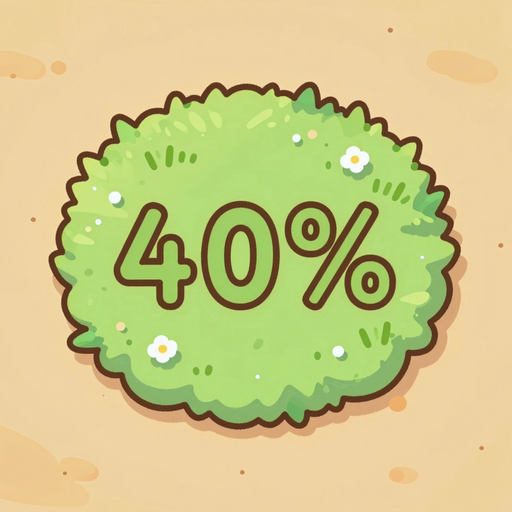
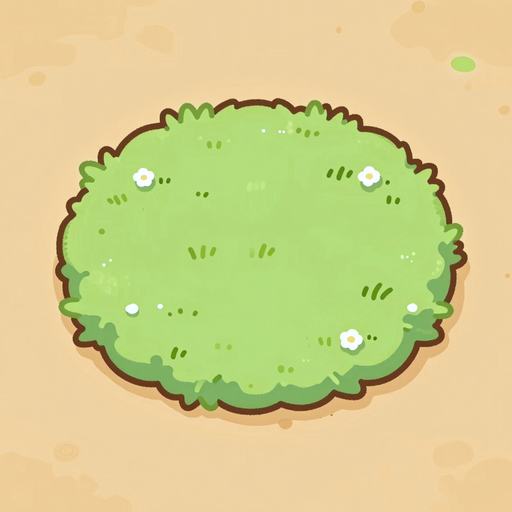
alfa 249dda4: Merge: camino más estrecho y sin la raya del perímetro

diff --git a/alfa/index.html b/alfa/index.html
@@ -10,10 +10,10 @@
 <link rel="preconnect" href="https://fonts.googleapis.com">
 <link rel="preconnect" href="https://fonts.gstatic.com" crossorigin>
 <link rel="stylesheet" href="https://fonts.googleapis.com/css2?family=Baloo+2:wght@600;700;800&family=Luckiest+Guy&display=swap">
-<link rel="stylesheet" href="core/css/base.css?v=5b7b6e4">
-<link rel="stylesheet" href="biblioteca/tienda.css?v=5b7b6e4">
-<link rel="stylesheet" href="novedades/ventana.css?v=5b7b6e4">
-<link rel="stylesheet" href="biblioteca/votos.css?v=5b7b6e4">
+<link rel="stylesheet" href="core/css/base.css?v=249dda4">
+<link rel="stylesheet" href="biblioteca/tienda.css?v=249dda4">
+<link rel="stylesheet" href="novedades/ventana.css?v=249dda4">
+<link rel="stylesheet" href="biblioteca/votos.css?v=249dda4">
 <style>
   /* la entrada de la web: una tarjeta por juego, con los colores y las letras de core */
   body { overflow: auto; touch-action: auto; align-items: flex-start; background-repeat: no-repeat; background-attachment: fixed; }
@@ -61,7 +61,7 @@
 </style>
 </head>
 <body>
-<script src="menu.js?v=5b7b6e4" data-base="" data-core="1" data-pagina=""></script>
+<script src="menu.js?v=249dda4" data-base="" data-core="1" data-pagina=""></script>
 <div class="nov-fondo" id="novedades" hidden>
   <div class="nov-caja" role="dialog" aria-modal="true" aria-labelledby="nov-titulo">
     <div class="nov-cabeza"><h2 class="ol" id="nov-titulo">NOVEDADES</h2><p id="nov-sub"></p></div>
@@ -333,8 +333,8 @@
   </section>
   <p class="note" id="pie-fansof">Fans Of™ · © 2026 Arkioner y Pepins · MicroBlizz · Todos los derechos reservados</p>
 </main>
-<script src="core/js/nucleo.js?v=0-a666.5b7b6e4"></script>
-<script src="core/js/novedades.js?v=5b7b6e4"></script>
+<script src="core/js/nucleo.js?v=0-a667.249dda4"></script>
+<script src="core/js/novedades.js?v=249dda4"></script>
 <script>
 // La cuenta de la web es la misma de los juegos (core/js/sistema/cuenta.js, mismo navegador = misma sesión). Aquí no hay partida que subir.
 const AJUSTES = { id: 'web', guardado: 'fansof-web' }, SAVE_KEY = AJUSTES.guardado, SAVE = {};
@@ -343,7 +343,7 @@ const HOOKS = {};
 function hook(name, fn) { (HOOKS[name] = HOOKS[name] || []).push(fn); }
 function fire(name, ...a) { let out = ''; for (const fn of HOOKS[name] || []) { const r = fn(...a); if (typeof r === 'string') out += r; } return out; }
 </script>
-<script src="core/js/sistema/cuenta.js?v=5b7b6e4"></script>
+<script src="core/js/sistema/cuenta.js?v=249dda4"></script>
 <script>NUCLEO.idiomaSolo({ en: ['core/idioma/en-raiz.js', 'novedades/en.js', 'biblioteca/en.js','games/rumble/idioma/en-7.js', 'games/td/idioma/en-2.js', 'games/survivors/idioma/en.js', 'games/crush/idioma/en-raiz.js', 'games/jump/idioma/en-raiz.js', 'games/taxi/idioma/en-raiz.js', 'games/dark/idioma/en-raiz.js', 'games/nova/idioma/en-raiz.js', 'demos/beams/idioma/en-raiz.js', 'demos/snakes/idioma/en-raiz.js', 'demos/merge/idioma/en-raiz.js', 'demos/swipe/idioma/en-raiz.js', 'demos/vikings/idioma/en-raiz.js', 'demos/goose/idioma/en-raiz.js', 'demos/asalto/idioma/en-raiz.js', 'demos/auto/idioma/en-raiz.js', 'games/island/idioma/en-raiz.js', 'demos/rumble-3d/idioma/en-raiz.js', 'demos/roguelite/idioma/en-raiz.js', 'demos/tactics-advance/idioma/en-raiz.js', 'games/rouflage/idioma/en-raiz.js', 'demos/dungeons/idioma/en-raiz.js', 'games/karts/idioma/en-raiz.js', 'demos/recruit/idioma/en-raiz.js', 'demos/terminal-shock/idioma/en-raiz.js', 'games/ratkov/idioma/en-raiz.js'] })</script>
 <script>
 // La versión y las novedades salen de los archivos de cada juego, así que esta página nunca se queda atrás.
@@ -369,14 +369,14 @@ const fail = id => () => {
 };
 
 </script>
-<script src="core/js/proximamente.js?v=5b7b6e4"></script>
-<script src="novedades/ventana.js?v=5b7b6e4"></script>
-<script src="biblioteca/tienda.js?v=5b7b6e4"></script>
-<script src="core/js/sistema/beta.js?v=5b7b6e4"></script>
-<script src="biblioteca/cuenta-web.js?v=5b7b6e4"></script>
-<script src="biblioteca/votos.js?v=5b7b6e4"></script>
-<script src="biblioteca/alfa.js?v=5b7b6e4"></script>
-<script src="core/js/sistema/analitica.js?v=5b7b6e4"></script>
-<script src="pie.js?v=5b7b6e4" defer></script>
+<script src="core/js/proximamente.js?v=249dda4"></script>
+<script src="novedades/ventana.js?v=249dda4"></script>
+<script src="biblioteca/tienda.js?v=249dda4"></script>
+<script src="core/js/sistema/beta.js?v=249dda4"></script>
+<script src="biblioteca/cuenta-web.js?v=249dda4"></script>
+<script src="biblioteca/votos.js?v=249dda4"></script>
+<script src="biblioteca/alfa.js?v=249dda4"></script>
+<script src="core/js/sistema/analitica.js?v=249dda4"></script>
+<script src="pie.js?v=249dda4" defer></script>
 </body>
 </html>

diff --git a/alfa/games/rouflage/index.html b/alfa/games/rouflage/index.html
@@ -10,7 +10,7 @@
 <link rel="preconnect" href="https://fonts.googleapis.com">
 <link rel="preconnect" href="https://fonts.gstatic.com" crossorigin>
 <link rel="stylesheet" href="https://fonts.googleapis.com/css2?family=Baloo+2:wght@600;700;800&family=Luckiest+Guy&display=swap">
-<script src="../../core/js/nucleo.js?v=0.2.63-a666.5b7b6e4"></script>
+<script src="../../core/js/nucleo.js?v=0.2.63-a667.249dda4"></script>
 <script>NUCLEO.estilos('../../core/css/base.css', '../../core/css/menus.css', '../../core/css/menus-extra.css')</script>
 <script>NUCLEO.estilos('estilo.css', 'estilo-taller.css', 'estilo-pantallas.css', 'estilo-pvp.css', 'estilo-armario.css', 'estilo-menus.css', 'estilo-misiones.css', 'estilo-escenario.css', 'estilo-votos.css', 'estilo-gacha.css', 'estilo-compra.css', 'estilo-fin.css', 'estilo-talentos.css', 'estilo-chat.css', 'estilo-titulo.css', 'estilo-barra.css', 'estilo-sala-viva.css', 'estilo-obra.css', 'estilo-ayuda.css', 'estilo-carga.css')</script>      <!-- la intro, la última: pisa el #carga de estilo.css (antes iba en línea dentro de #carga) -->
 </head>

diff --git a/alfa/demos/merge/js/losetas.js b/alfa/demos/merge/js/losetas.js
@@ -10,7 +10,7 @@
 // O = cuánta tierra de más lleva cada pieza por dentro, que se funde con el centro; F = cuánta hierba se desvanece por fuera, para fundirse con el suelo;
 // IF = hasta dónde sale la esquina de la isla hacia la tierra; IR = hasta dónde entra en su hierba (su esquina redonda); C = desde dónde se toma el centro liso.
 // En partes de casilla: I = el margen de hierba que deja la tierra dentro de su casilla (como en Triple Town); A = lo ancho que se pinta el borde B.
-const MG_LOSA = { de: '', piezas: null, B: 0.2, E: 0.27, O: 0.06, F: 0.1, IF: 0.08, IR: 0.26, C: 0.27, I: 0.13, A: 0.24 };
+const MG_LOSA = { de: '', piezas: null, B: 0.2, E: 0.27, O: 0.06, F: 0.14, IF: 0.08, IR: 0.26, C: 0.27, I: 0.2, A: 0.22 };
 // recorta una zona (x, y, w, h) de una imagen y la desvanece por los lados que se le digan: f = [izquierda, derecha, arriba, abajo], en px de la imagen
 function mgLosaTrozo(im, x, y, w, h, f) {
   const cv = document.createElement('canvas'); cv.width = Math.max(1, Math.round(w)); cv.height = Math.max(1, Math.round(h));

diff --git a/alfa/games/karts/index.html b/alfa/games/karts/index.html
@@ -8,7 +8,7 @@
 <meta name="description" content="Fans of Karts (juego): carreras de karts en pixel art de consola portátil con los líderes de Fans of Rumble. Tres pistas, seis pilotos, objetos con mala idea y Microblizz, que ha comprado la carrera.">
 <link rel="icon" type="image/png" href="img/icon-192.png">
 <link rel="apple-touch-icon" href="img/icon-192.png">
-<script src="../../core/js/nucleo.js?v=0.7.15-a666.5b7b6e4"></script>
+<script src="../../core/js/nucleo.js?v=0.7.15-a667.249dda4"></script>
 <script>NUCLEO.estilos('../../core/css/base.css', '../../core/css/menus.css', '../../core/css/menus-tienda.css', '../../core/css/menus-extra.css', 'css/tienda.css', 'css/pvp.css')</script>
 <link rel="stylesheet" href="https://fonts.googleapis.com/css2?family=Baloo+2:wght@600;700;800&family=Luckiest+Guy&display=swap">
 <style>

diff --git a/alfa/games/dark/index.html b/alfa/games/dark/index.html
@@ -12,7 +12,7 @@
 <link rel="stylesheet" href="https://fonts.googleapis.com/css2?family=Baloo+2:wght@600;700;800&family=Luckiest+Guy&family=Press+Start+2P&family=Pixelify+Sans:wght@400;600;700&display=swap">
 <link rel="stylesheet" href="css/dark.css?v=0.2.4">
 <!-- Prototipo: no usa NUCLEO (tiene su propia partida guardada). Carga de core el arte, la música, los efectos y las cifras del Rumble.
-     VERSIÓN para desplegar.py (que la busca así): nucleo.js?v=0.2.7-a666.5b7b6e4' (aquí solo se anota; súbela junto al ?v= de los scripts). -->
+     VERSIÓN para desplegar.py (que la busca así): nucleo.js?v=0.2.7-a667.249dda4' (aquí solo se anota; súbela junto al ?v= de los scripts). -->
 </head>
 <body>
 <canvas id="cv" aria-label="Mazmorra"></canvas>

diff --git a/alfa/games/rumble/index.html b/alfa/games/rumble/index.html
@@ -16,7 +16,7 @@
 <link rel="preconnect" href="https://fonts.gstatic.com" crossorigin>
 <link rel="stylesheet" href="https://fonts.googleapis.com/css2?family=Baloo+2:wght@600;700;800&family=Luckiest+Guy&display=swap">
 <!-- core/js/nucleo.js carga lo común y el juego. LA VERSIÓN SE ESCRIBE SOLO AQUÍ, en su ?v= -->
-<script src="../../core/js/nucleo.js?v=0.9.158-a666.5b7b6e4"></script>
+<script src="../../core/js/nucleo.js?v=0.9.158-a667.249dda4"></script>
 <script>NUCLEO.estilos('../../core/css/menus.css', 'css/estilos-partida.css', 'css/estilos-extra.css', 'css/arena.css', '../../core/css/biblioteca.css', 'css/facciones-y-jefes.css', '../../core/css/clasificacion.css', 'css/frases.css', 'css/mitica.css', 'css/paletas.css')</script>
 
 </head>

diff --git a/alfa/games/jump/index.html b/alfa/games/jump/index.html
@@ -12,7 +12,7 @@
 <link rel="preconnect" href="https://fonts.gstatic.com" crossorigin>
 <link rel="stylesheet" href="https://fonts.googleapis.com/css2?family=Baloo+2:wght@600;700;800&family=Luckiest+Guy&display=swap">
 <!-- ?v= es la versión del juego (la misma en la web y en la app): súbela al publicar y pon su entrada en js/novedades.js -->
-<script src="../../core/js/nucleo.js?v=0.3.16-a666.5b7b6e4"></script>
+<script src="../../core/js/nucleo.js?v=0.3.16-a667.249dda4"></script>
 <script>NUCLEO.estilos('../../core/css/base.css', '../../core/css/menus.css')</script>
 <style>
 /* Fans of Jump: un solo canvas a la resolución real de la pantalla, con los dibujos 3D. El mundo mide unos 200 de ancho y se

diff --git a/alfa/games/decks/index.html b/alfa/games/decks/index.html
@@ -15,7 +15,7 @@
 <link rel="preconnect" href="https://fonts.gstatic.com" crossorigin>
 <link rel="stylesheet" href="https://fonts.googleapis.com/css2?family=Baloo+2:wght@600;700;800&family=Luckiest+Guy&display=swap">
 <!-- core/js/nucleo.js carga lo común y el juego. LA VERSIÓN SE ESCRIBE SOLO AQUÍ, en su ?v= -->
-<script src="../../core/js/nucleo.js?v=0.2.21-a666.5b7b6e4"></script>
+<script src="../../core/js/nucleo.js?v=0.2.21-a667.249dda4"></script>
 <script>NUCLEO.estilos('../../core/css/base.css', '../../core/css/menus.css', 'css/decks.css', 'css/decks-reunion.css', 'css/decks-anim.css', 'css/decks-campana.css', 'css/decks-lideres.css')</script>
 </head>
 <body>

diff --git a/alfa/demos/goose/index.html b/alfa/demos/goose/index.html
@@ -10,7 +10,7 @@
 <link rel="preconnect" href="https://fonts.gstatic.com" crossorigin>
 <link rel="stylesheet" href="https://fonts.googleapis.com/css2?family=Pixelify+Sans:wght@500;700&family=Pirata+One&display=swap">
 <!-- ?v= es la versión de la demo: súbela al publicar -->
-<script src="../../core/js/nucleo.js?v=0.3.1-a666.5b7b6e4"></script>
+<script src="../../core/js/nucleo.js?v=0.3.1-a667.249dda4"></script>
 <script>NUCLEO.estilos('../../core/css/base.css', '../../core/css/menus.css')</script>
 <style>
 /* Fans of Goose: un solo canvas en vertical, a la resolución real del móvil. El mundo mide 200 de ancho. */

diff --git a/alfa/games/ratkov/index.html b/alfa/games/ratkov/index.html
@@ -13,7 +13,7 @@
 <link rel="preconnect" href="https://fonts.gstatic.com" crossorigin>
 <link rel="stylesheet" href="https://fonts.googleapis.com/css2?family=VT323&family=Russo+One&display=swap">
 <script src="https://cdnjs.cloudflare.com/ajax/libs/three.js/r128/three.min.js"></script>
-<script src="../../core/js/nucleo.js?v=0.2.29-a666.5b7b6e4"></script>
+<script src="../../core/js/nucleo.js?v=0.2.29-a667.249dda4"></script>
 <script>NUCLEO.estilos('../../core/css/base.css', '../../core/css/menus.css')</script>
 <link rel="stylesheet" href="estilo.css?v=0.2.3">
 <link rel="stylesheet" href="estilo-refugio.css?v=0.2.3">

diff --git a/alfa/games/survivors/index.html b/alfa/games/survivors/index.html
@@ -15,7 +15,7 @@
 <link rel="preconnect" href="https://fonts.gstatic.com" crossorigin>
 <link rel="stylesheet" href="https://fonts.googleapis.com/css2?family=Baloo+2:wght@600;700;800&family=Luckiest+Guy&display=swap">
 <!-- core/js/nucleo.js carga lo común y el juego. LA VERSIÓN SE ESCRIBE SOLO AQUÍ, en su ?v= -->
-<script src="../../core/js/nucleo.js?v=0.1.71-a666.5b7b6e4"></script>
+<script src="../../core/js/nucleo.js?v=0.1.71-a667.249dda4"></script>
 <script>NUCLEO.estilos('../../core/css/base.css', '../../core/css/menus.css', 'css/survivors.css', '../../core/css/biblioteca.css')</script>
 </head>
 <body>

diff --git a/alfa/games/td/index.html b/alfa/games/td/index.html
@@ -15,7 +15,7 @@
 <link rel="preconnect" href="https://fonts.gstatic.com" crossorigin>
 <link rel="stylesheet" href="https://fonts.googleapis.com/css2?family=Baloo+2:wght@600;700;800&family=Luckiest+Guy&display=swap">
 <!-- core/js/nucleo.js carga lo común y el juego. LA VERSIÓN SE ESCRIBE SOLO AQUÍ, en su ?v= -->
-<script src="../../core/js/nucleo.js?v=0.13.87-a666.5b7b6e4"></script>
+<script src="../../core/js/nucleo.js?v=0.13.87-a667.249dda4"></script>
 <script>NUCLEO.estilos('../../core/css/base.css', 'css/td.css', '../../core/css/menus.css', '../../core/css/biblioteca.css')</script>
 </head>
 <body>
